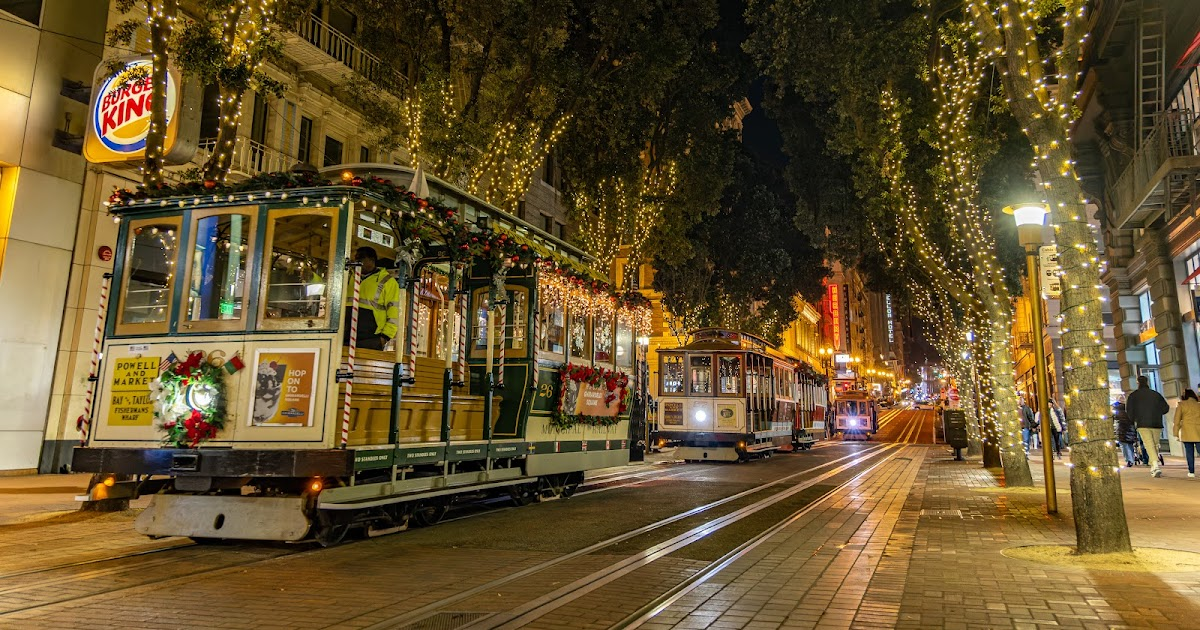
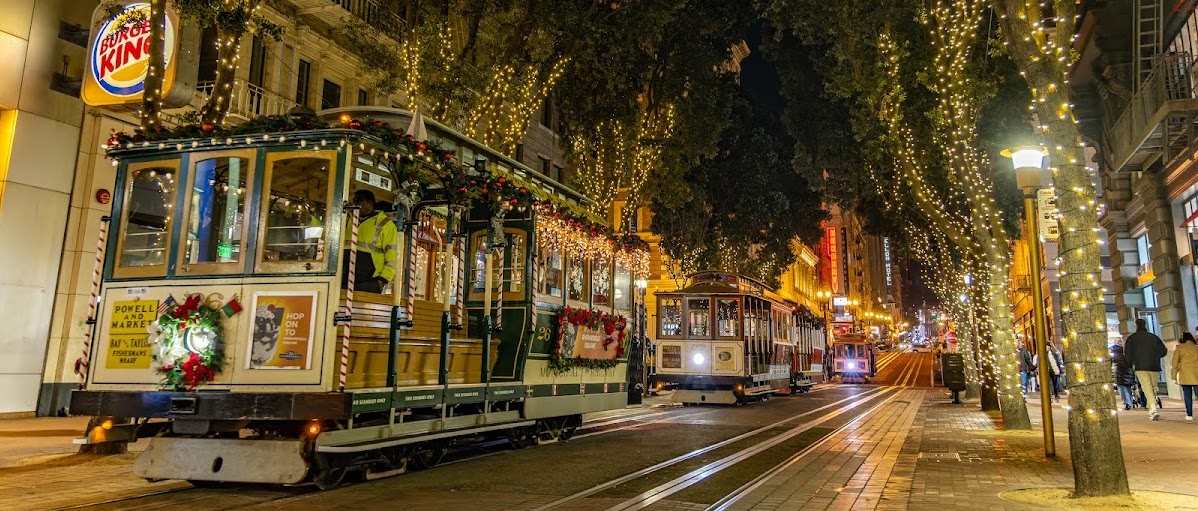
Implemented sections and cropped background image

diff --git a/assets/styles/about.css b/assets/styles/about.css
@@ -1,3 +1,7 @@
+body {
+  margin: 0;
+}
+
 .subhead {
   color: #779CAB;
   font-size: 1.7vw;
@@ -45,6 +49,10 @@ header {
 
 hr {
   margin: auto 220px;
+}
+
+section {
+  background-color: #fff;
 }
 
 #content {
